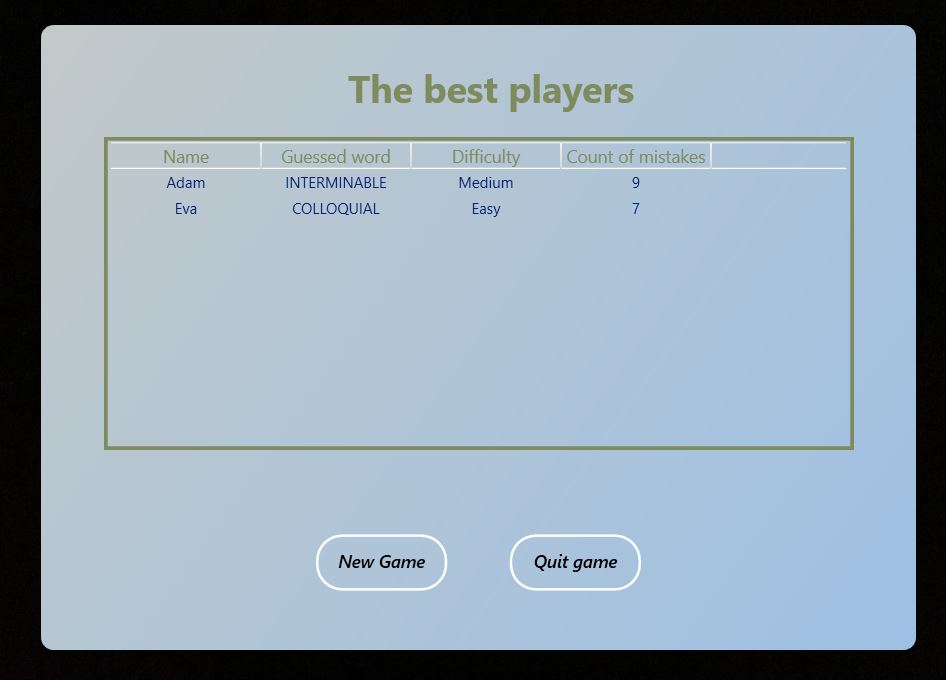
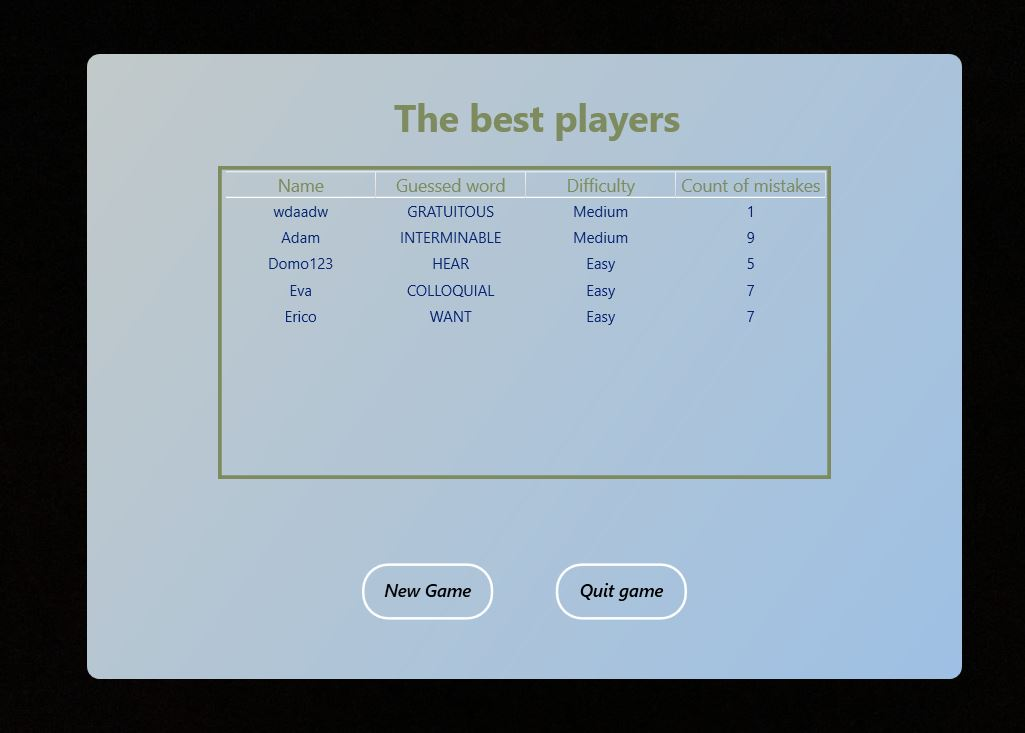
Edited listView

Changed region(s): [[0.0307, 0.0309, 0.981, 0.9574], [0.5211, 0.7412, 0.6744, 0.8956], [0.3372, 0.7412, 0.4905, 0.8956]]

diff --git a/Views/HighScoresView.xaml b/Views/HighScoresView.xaml
@@ -5,7 +5,7 @@
              xmlns:d="http://schemas.microsoft.com/expression/blend/2008" 
              xmlns:local="clr-namespace:theHangedManWpf.Views"
              mc:Ignorable="d" 
-             d:DesignHeight="450" d:DesignWidth="800">
+             d:DesignHeight="450" d:DesignWidth="700">
     <Grid>
         <Grid.RowDefinitions>
             <RowDefinition Height="Auto"/>
@@ -31,8 +31,10 @@
                       BorderBrush="#7e8b5e"
                       BorderThickness="3"
                       Visibility="Visible"
-                      Width="600"
-                      Height="250">
+                      Width="490"
+                      Height="250"
+                      ScrollViewer.HorizontalScrollBarVisibility="Disabled"
+                      ScrollViewer.VerticalScrollBarVisibility="Disabled">
                 <ListView.ItemContainerStyle>
                     <Style TargetType="ListViewItem">
                         <Setter Property="HorizontalContentAlignment" Value="Stretch"/>

diff --git a/Converters/TimerTickToVisibilityConverter.cs b/Converters/TimerTickToVisibilityConverter.cs
@@ -6,7 +6,9 @@ namespace theHangedManWpf.Converters
 {
     public class TimerTickToVisibilityConverter : IValueConverter
     {
-        
+
+        // Verifies whether the difficulty is set to hard,
+        // if so it returns visibility and the timer is displayed if it is not hidden
         public object Convert(object value, Type targetType, object parameter, CultureInfo culture)
         {
             if(value is string difficultyPlayerString)

diff --git a/Converters/ErrorCountToVisibilityConverter.cs b/Converters/ErrorCountToVisibilityConverter.cs
@@ -6,6 +6,7 @@ namespace theHangedManWpf.Converters
 {
     public class ErrorCountToVisibilityConverter : IValueConverter
     {
+        // Sets object visibility based on mistakes count and converterParameter
         public object Convert(object value, Type targetType, object parameter, CultureInfo culture)
         {
             if (value is int attempLeft)
